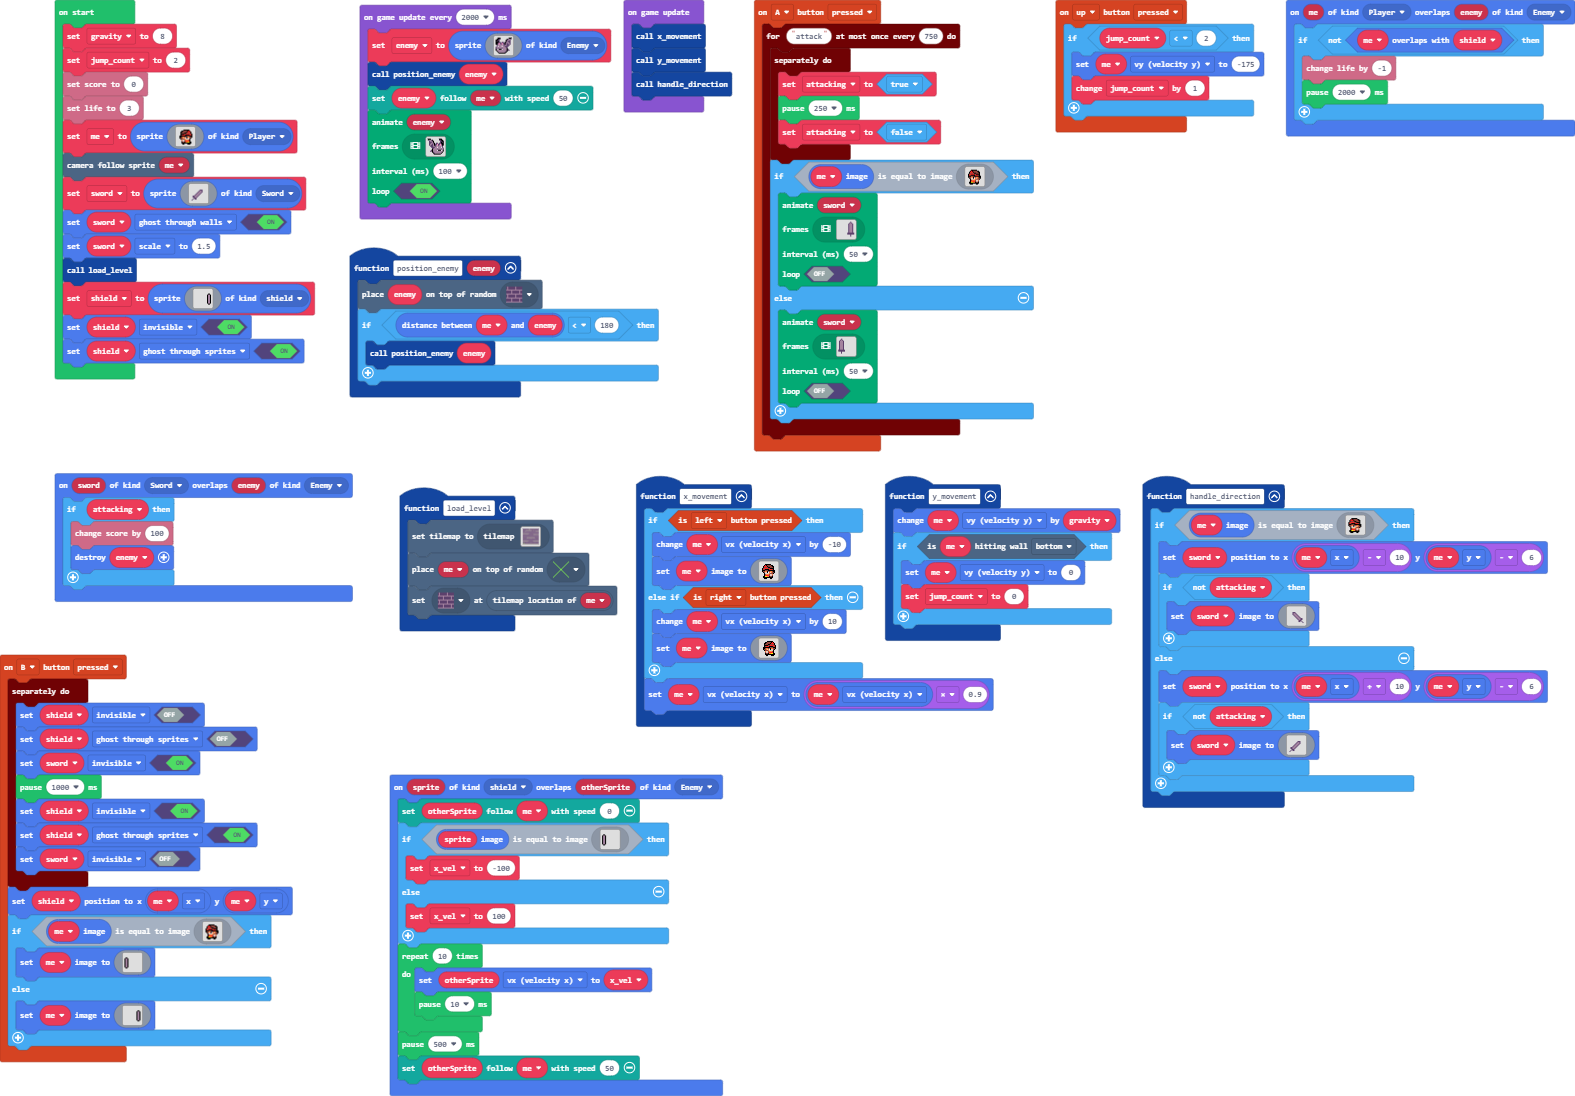
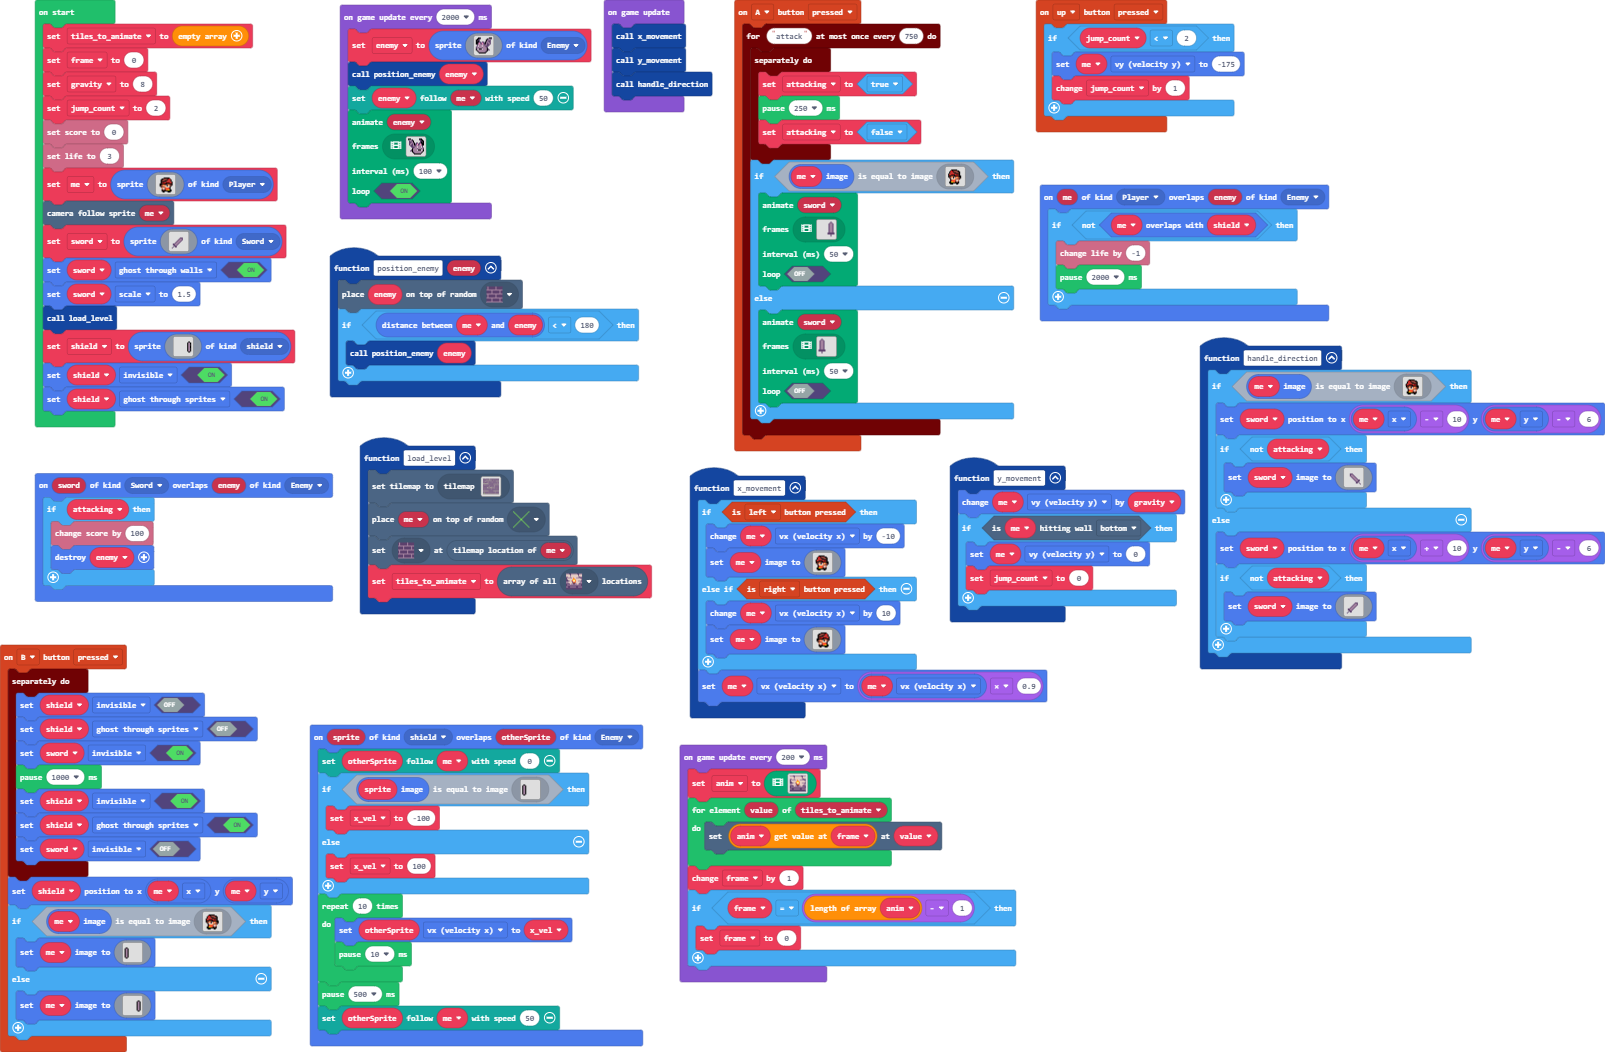
w2 hack: torch anim

diff --git a/images.g.ts b/images.g.ts
@@ -299,6 +299,93 @@ c c c b b c . . . . . . . . . .
 . . . c c c c c c c c c c c . . 
 . . . c c . . . . . . . . . . . 
 `];
+            case "swing left":
+            case "anim2":return [img`
+. . . . . . . . . . . . c . . . 
+. . . . . . . . . . . c b c . . 
+. . . . . . . . . . c b b b c . 
+. . . . . . . . . . c b b b c . 
+. . . . . . . . . . c b b b c . 
+. . . . . . . . . . c b b b c . 
+. . . . . . . . . . c b b b c . 
+. . . . . . . . . . c b b b c . 
+. . . . . . . . . . c b b b c . 
+. . . . . . . . . . c b b b c . 
+. . . . . . . . . . c b b b c . 
+. . . . . . . . . c c c c c c c 
+. . . . . . . . . c c c c c c c 
+. . . . . . . . . . . . c . . . 
+. . . . . . . . . . . . c . . . 
+. . . . . . . . . . . . . . . . 
+`, img`
+. . . . . . . . . . . . . . . . 
+. . . . . . . c c c . . 1 . . . 
+. . . . . . . c b b c . . . . . 
+. . . . . . . c b b c . . . 1 . 
+. . . . . . . . c b b c . . . . 
+. . . . . . . . c b b c . . . . 
+. . . . . . . . . c b b c . . . 
+. . . . . . . . . c b b c . . . 
+. . . . . . . . . . c b b c . c 
+. . . . . . . . . . c b b c c c 
+. . . . . . . . . . . c b c c . 
+. . . . . . . . . . . c c c . . 
+. . . . . . . . . . . c c c c . 
+. . . . . . . . . . c . . . c . 
+. . . . . . . . . . . . . . c . 
+. . . . . . . . . . . . . . . . 
+`, img`
+. . . . . . . . . . . . . . . . 
+. . . . . . . . . . . 1 . . . . 
+. . . . . . . . . . 1 . . . . . 
+. . . . . . . . . 1 . . . 1 . . 
+. . . . c c c . . . . . . . . . 
+. . . . c b b c . . . 1 . . . . 
+. . . . c b b b c . . . . . 1 . 
+. . . . . c b b b c . . . 1 . . 
+. . . . . . c b b b c . . . . . 
+. . . . . . . c b b b c . . . . 
+. . . . . . . . c b b b c c . . 
+. . . . . . . . . c b b c c . . 
+. . . . . . . . . . c c c . . . 
+. . . . . . . . . . c c . c . . 
+. . . . . . . . . . . . . . c . 
+. . . . . . . . . . . . . . . . 
+`, img`
+. . . . . . . . . . . . . . . . 
+. . . . . . . . . . . . . . . . 
+. . . . . . 1 . . . . . . . . . 
+. . . . . 1 . . . 1 . . . . . . 
+. . . . . 1 . . 1 . . . 1 . . . 
+. . . . 1 . . . 1 . . 1 . . . . 
+c c c . . . . 1 . . . 1 . . . . 
+c b b c c . . . . . 1 . . . . . 
+c b b b b c c . . . . . . . . . 
+. c c b b b b c c . . . . . . . 
+. . . c c b b b b c c . c c . . 
+. . . . . c c b b b b c c c . . 
+. . . . . . . c c b b c c . . . 
+. . . . . . . . . c c c c . . . 
+. . . . . . . . . . c c . c c . 
+. . . . . . . . . . c c . . . . 
+`, img`
+. . . . . . . . . . . . . . . . 
+. . . . . . . . . . . . . . . . 
+. . . . . . . . . . . . . . . . 
+. . . . . . . . . . . . . . . . 
+. . . . 1 . 1 . 1 . . . . . . . 
+. . . . 1 . 1 . 1 . . . . . . . 
+. . . . 1 . 1 . 1 . . . . . . . 
+. . . . 1 . 1 . 1 . . . . . . . 
+. . . . 1 . 1 . 1 . . . . . . . 
+. . . . . . . . . . . c c . . . 
+. . c c c c c c c c c c c . . . 
+. c b b b b b b b b b c c . . . 
+c b b b b b b b b b b c c c c . 
+. c b b b b b b b b b c c . . . 
+. . c c c c c c c c c c c . . . 
+. . . . . . . . . . . c c . . . 
+`];
             case "torch flicker":
             case "anim5":return [img`
 b b b c c b b b b b b c c b b b 
@@ -436,93 +523,6 @@ c c c c c c c c c c c c c c c c
 b b c c b b b b b b c c b b b b 
 c c c c c c c c c c c c c c c c 
 c c c c c c c c c c c c c c c c 
-`];
-            case "swing left":
-            case "anim2":return [img`
-. . . . . . . . . . . . c . . . 
-. . . . . . . . . . . c b c . . 
-. . . . . . . . . . c b b b c . 
-. . . . . . . . . . c b b b c . 
-. . . . . . . . . . c b b b c . 
-. . . . . . . . . . c b b b c . 
-. . . . . . . . . . c b b b c . 
-. . . . . . . . . . c b b b c . 
-. . . . . . . . . . c b b b c . 
-. . . . . . . . . . c b b b c . 
-. . . . . . . . . . c b b b c . 
-. . . . . . . . . c c c c c c c 
-. . . . . . . . . c c c c c c c 
-. . . . . . . . . . . . c . . . 
-. . . . . . . . . . . . c . . . 
-. . . . . . . . . . . . . . . . 
-`, img`
-. . . . . . . . . . . . . . . . 
-. . . . . . . c c c . . 1 . . . 
-. . . . . . . c b b c . . . . . 
-. . . . . . . c b b c . . . 1 . 
-. . . . . . . . c b b c . . . . 
-. . . . . . . . c b b c . . . . 
-. . . . . . . . . c b b c . . . 
-. . . . . . . . . c b b c . . . 
-. . . . . . . . . . c b b c . c 
-. . . . . . . . . . c b b c c c 
-. . . . . . . . . . . c b c c . 
-. . . . . . . . . . . c c c . . 
-. . . . . . . . . . . c c c c . 
-. . . . . . . . . . c . . . c . 
-. . . . . . . . . . . . . . c . 
-. . . . . . . . . . . . . . . . 
-`, img`
-. . . . . . . . . . . . . . . . 
-. . . . . . . . . . . 1 . . . . 
-. . . . . . . . . . 1 . . . . . 
-. . . . . . . . . 1 . . . 1 . . 
-. . . . c c c . . . . . . . . . 
-. . . . c b b c . . . 1 . . . . 
-. . . . c b b b c . . . . . 1 . 
-. . . . . c b b b c . . . 1 . . 
-. . . . . . c b b b c . . . . . 
-. . . . . . . c b b b c . . . . 
-. . . . . . . . c b b b c c . . 
-. . . . . . . . . c b b c c . . 
-. . . . . . . . . . c c c . . . 
-. . . . . . . . . . c c . c . . 
-. . . . . . . . . . . . . . c . 
-. . . . . . . . . . . . . . . . 
-`, img`
-. . . . . . . . . . . . . . . . 
-. . . . . . . . . . . . . . . . 
-. . . . . . 1 . . . . . . . . . 
-. . . . . 1 . . . 1 . . . . . . 
-. . . . . 1 . . 1 . . . 1 . . . 
-. . . . 1 . . . 1 . . 1 . . . . 
-c c c . . . . 1 . . . 1 . . . . 
-c b b c c . . . . . 1 . . . . . 
-c b b b b c c . . . . . . . . . 
-. c c b b b b c c . . . . . . . 
-. . . c c b b b b c c . c c . . 
-. . . . . c c b b b b c c c . . 
-. . . . . . . c c b b c c . . . 
-. . . . . . . . . c c c c . . . 
-. . . . . . . . . . c c . c c . 
-. . . . . . . . . . c c . . . . 
-`, img`
-. . . . . . . . . . . . . . . . 
-. . . . . . . . . . . . . . . . 
-. . . . . . . . . . . . . . . . 
-. . . . . . . . . . . . . . . . 
-. . . . 1 . 1 . 1 . . . . . . . 
-. . . . 1 . 1 . 1 . . . . . . . 
-. . . . 1 . 1 . 1 . . . . . . . 
-. . . . 1 . 1 . 1 . . . . . . . 
-. . . . 1 . 1 . 1 . . . . . . . 
-. . . . . . . . . . . c c . . . 
-. . c c c c c c c c c c c . . . 
-. c b b b b b b b b b c c . . . 
-c b b b b b b b b b b c c c c . 
-. c b b b b b b b b b c c . . . 
-. . c c c c c c c c c c c . . . 
-. . . . . . . . . . . c c . . . 
 `];
         }
         return null;

diff --git a/tilemap.g.ts b/tilemap.g.ts
@@ -33,7 +33,7 @@ namespace myTiles {
 . . . . . . . . . . . . . . . . 
 `, [myTiles.transparency16], TileScale.Sixteen);
             case "level1":
-            case "level1":return tiles.createTilemap(hex`1400140002020202020202020302020202020202020202020202020202020202030202020202020202020202020202020303030303030302020302020202020202020203020202020202020202020202030303030202020202020202020202020202020202020202020202020202020202020202020202020202020203030303030303030202020202020202020202020202020202020202020202020203030303030303020202020202020202020202020202020202020202020202020202020202020202020202020202020202020202020202020202020202020202020202020202020203030303030303030303020202020202020202020202020202020202020202020202020202020202020202020202020202020202020202020202020202020202020202020202020202020203030303030303020202020202030303030303030202020202020202020202020202020202020202020202020202020202020202020202020202020202010202020202020202020202020202020202020303030303030303030303030303030303030303`, img`
+            case "level1":return tiles.createTilemap(hex`1400140002020204020202020302020202020202020202020202020202020202030202020202020202020202020202020303030303030302020302020202020202020203020202020202020202020202030303030204020202020402020202040202020202020202020202020202020202020202020202020202040203030303030303030202020202020202020202020202020202020202020202020203030303030303020204020202020202020202020202020202020202020202020202020402020202020402020202020202020202020202020202020202020202020202020202020203030303030303030303020202020202020202020202020202020202020202020402020202040202020202020204020202020202020202020202020202020202020202020202020202020203030303030303020202020202030303030303030202020202020202020202020202020202020202020204020202020402020202020202040202020202010202020202020202020202020202020202020303030303030303030303030303030303030303`, img`
 ........2...........
 ........2...........
 ....2222222..2......
@@ -54,7 +54,7 @@ namespace myTiles {
 ....................
 ....................
 22222222222222222222
-`, [myTiles.transparency16,myTiles.tile5,myTiles.tile1,myTiles.tile4], TileScale.Sixteen);
+`, [myTiles.transparency16,myTiles.tile5,myTiles.tile1,myTiles.tile4,myTiles.tile6], TileScale.Sixteen);
         }
         return null;
     })

diff --git a/main.ts b/main.ts
@@ -76,6 +76,7 @@ function load_level () {
     tiles.setCurrentTilemap(tilemap`level1`)
     tiles.placeOnRandomTile(me, assets.tile`player spawn`)
     tiles.setTileAt(me.tilemapLocation(), assets.tile`wall`)
+    tiles_to_animate = tiles.getTilesByType(assets.tile`torch`)
 }
 sprites.onOverlap(SpriteKind.Sword, SpriteKind.Enemy, function (sword, enemy) {
     if (attacking) {
@@ -116,6 +117,7 @@ function position_enemy (enemy: Sprite) {
         position_enemy(enemy)
     }
 }
+let anim: Image[] = []
 let enemy: Sprite = null
 let x_vel = 0
 let attacking = false
@@ -124,6 +126,9 @@ let sword: Sprite = null
 let me: Sprite = null
 let jump_count = 0
 let gravity = 0
+let tiles_to_animate: tiles.Location[] = []
+tiles_to_animate = []
+let frame = 0
 gravity = 8
 jump_count = 2
 info.setScore(0)
@@ -152,4 +157,14 @@ game.onUpdateInterval(2000, function () {
     100,
     true
     )
+})
+game.onUpdateInterval(200, function () {
+    anim = assets.animation`torch flicker`
+    for (let value of tiles_to_animate) {
+        tiles.setTileAt(value, anim[frame])
+    }
+    frame += 1
+    if (frame == anim.length - 1) {
+        frame = 0
+    }
 })
